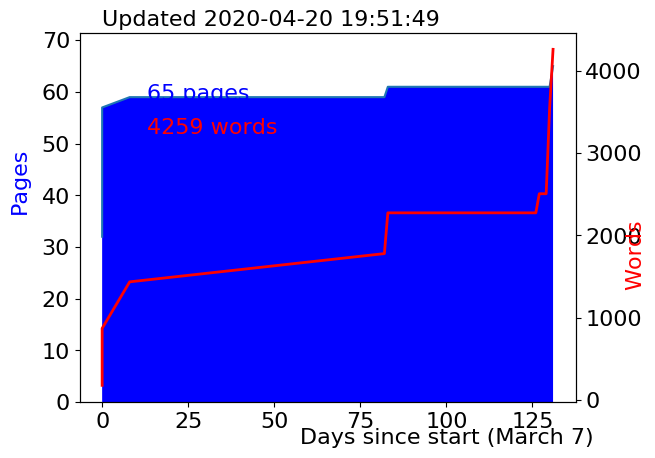
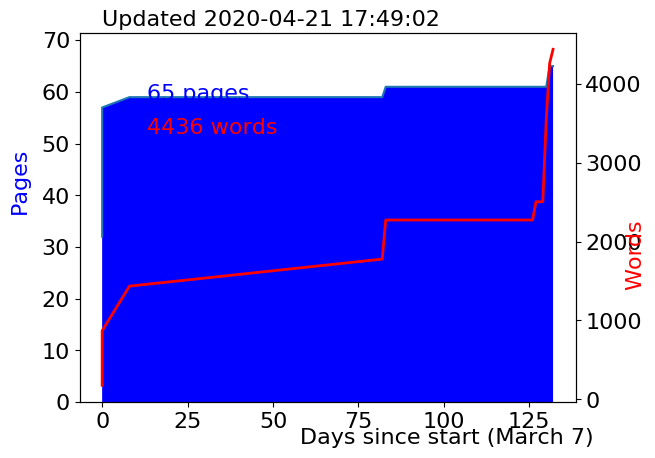
started LLP section

diff --git a/Chapters/LLPs.tex b/Chapters/LLPs.tex
@@ -1,4 +1,36 @@
 \chapter{Long Lived Particles}
 
-\section{Motivation}
+This chapter presents some context and basic information about searches for \acp{LLP}. 
+
 \section{Basics}
+
+Any particle's lifetime is given as the inverse of its \emph{width}:
+
+\begin{equation}
+\tau = \frac{1}{\Gamma}
+\end{equation}
+
+Where its width can be defined as:
+
+\begin{equation}
+\Gamma = \frac{1}{2m_{X}} \int d\Pi_f \big| \mathcal{M}(m_X \rightarrow \{p_f\})\big|^2
+\end{equation}
+
+where $m_X$ is the mass of the particle, $mathcal{M}$ is the matrix element for the particle's decay into its decay products $\{p_f\}$ and $d\Pi_f$ is the Lorentz-invariant phase space of the decay. 
+
+In order for the lifetime of a particle to be long, the width must be small, meaning that the matrix element or allowed phase space must be small. A small matrix element can be caused by a small coupling, and a small phase space can be caused by almost-degenerate mass spectra or very offshel intermediate states. All of which are common in both the \ac{SM} and many \ac{BSM} theories. 
+
+
+
+
+\section{In Context}
+
+\begin{figure}[htbp]
+\centering
+\includegraphics[width=.8\textwidth]{figures/theory/LLP-mass-lifetime.png}
+\caption{A mass and proper lifetime distribution of particles in the \ac{SM}. There is a wide range of both masses and lifetimes. Shaded regions indicate detector-prompt or detector-stable particles. This assumes that particles traveling at the speed of light $\beta = 1$.}
+\label{fig:trking_d0_eff}
+\end{figure}
+
+
+%other kinds of LLP signatures

diff --git a/classicthesis-config.tex b/classicthesis-config.tex
@@ -92,10 +92,10 @@ natbib=true % natbib compatibility mode (\citep and \citet still work)
 }{biblatex}
 \usepackage{biblatex}
  
- %------------------------------------------------
+%------------------------------------------------
 
-\PassOptionsToPackage{fleqn}{amsmath} % Math environments and more by the AMS 
- \usepackage{amsmath}
+%\PassOptionsToPackage{fleqn}{amsmath} % Math environments and more by the AMS 
+\usepackage{amsmath}
  
  %------------------------------------------------
 

diff --git a/FrontBackMatter/Contents.tex b/FrontBackMatter/Contents.tex
@@ -129,6 +129,7 @@
 \acro{SUSY}{Supersymmetry}
 \acro{MSSM}{Minimal Supersymmetric Standard Model}
 \acro{LSP}{Lightest Supersymmetric Particle}
+\acro{LLP}{Long Lived Particle}
 % analysis acronyms
 \acro{AOD}{Analysis Object Data}
 \acro{dAOD}{derived AOD}

diff --git a/scripts/pages.md b/scripts/pages.md
@@ -72,3 +72,11 @@
 + [2020-04-20-19h43m47s] 65 4279
 + [2020-04-20-19h48m56s] 65 4279
 + [2020-04-20-19h51m49s] 65 4259
++ [2020-04-21-12h07m33s] 65 4288
++ [2020-04-21-12h08m25s] 65 4288
++ [2020-04-21-12h10m36s] 65 4288
++ [2020-04-21-12h44m18s] 65 4296
++ [2020-04-21-12h52m49s] 65 4296
++ [2020-04-21-17h33m29s] 65 4296
++ [2020-04-21-17h34m27s] 65 4296
++ [2020-04-21-17h49m02s] 65 4436
